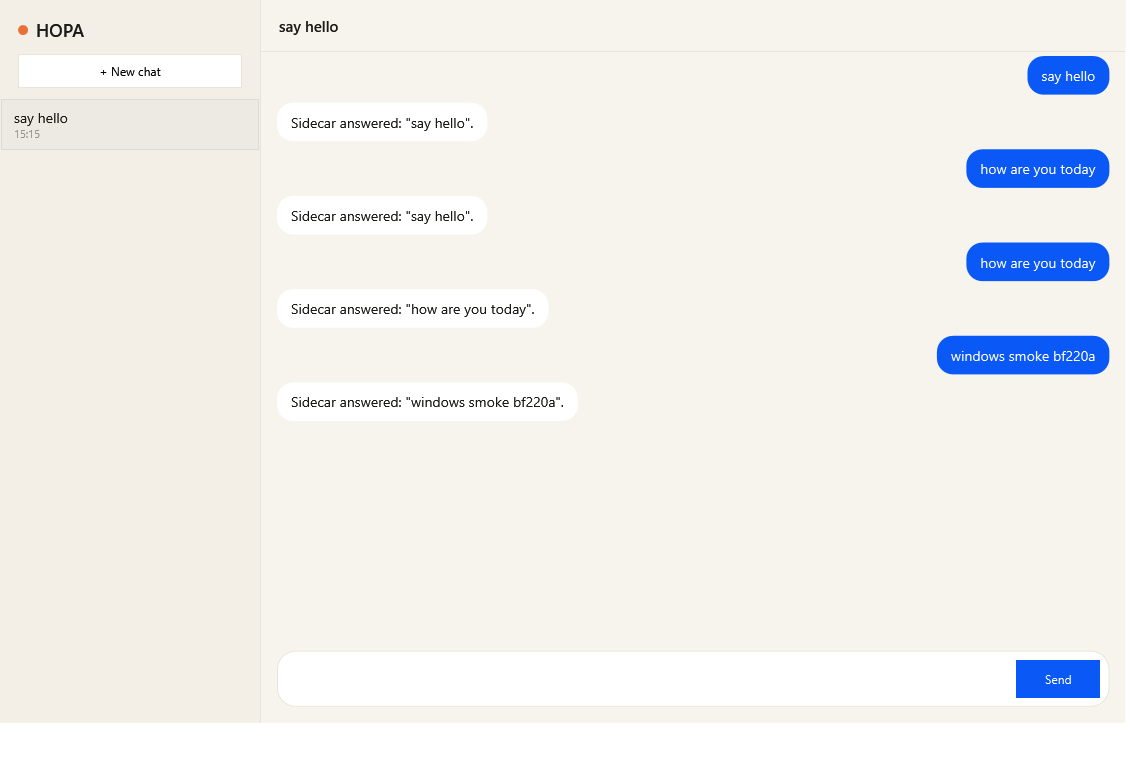
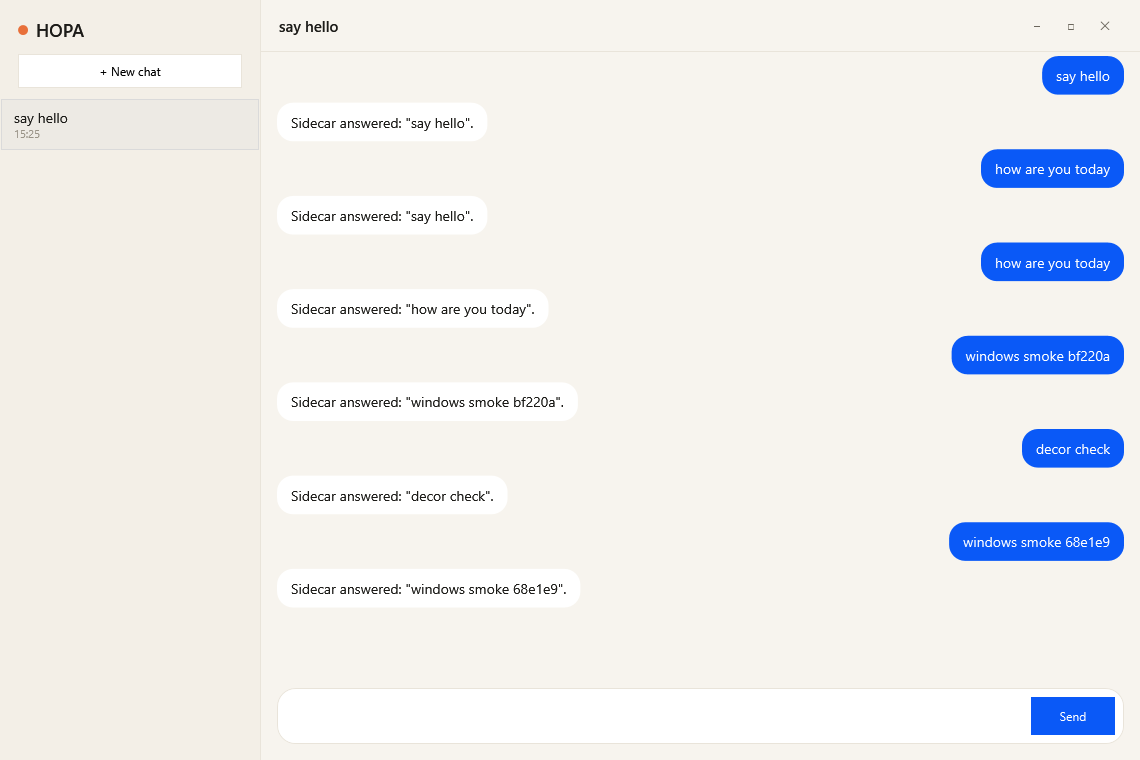
feat(windows): hide the system title bar like the laptop app
WindowChrome keeps resizing and snapping while the 52 px header becomes the drag area and carries the window buttons. The W1 screenshot is refreshed.

diff --git a/apps/windows/Hopa.Windows/MainWindow.xaml b/apps/windows/Hopa.Windows/MainWindow.xaml
@@ -4,6 +4,8 @@
         Title="HOPA"
         Height="760" Width="1140"
         Background="#F7F4EE"
+        WindowStyle="None"
+        ResizeMode="CanResize"
         WindowStartupLocation="CenterScreen">
     <Window.Resources>
         <DataTemplate x:Key="MessageTemplate">
@@ -57,10 +59,27 @@
 
             <Border Grid.Row="0" Background="#F7F4EE" BorderBrush="#E9E4DA" BorderThickness="0,0,0,1">
                 <Grid Margin="18,0">
+                    <Grid.ColumnDefinitions>
+                        <ColumnDefinition Width="*" />
+                        <ColumnDefinition Width="Auto" />
+                        <ColumnDefinition Width="Auto" />
+                    </Grid.ColumnDefinitions>
                     <TextBlock x:Name="TitleText" Text="New chat" VerticalAlignment="Center"
                                FontSize="15" FontWeight="SemiBold" Foreground="#1C1B18" />
-                    <TextBlock x:Name="StatusText" Text="" HorizontalAlignment="Right"
-                               VerticalAlignment="Center" FontSize="11" Foreground="#9A9488" />
+                    <TextBlock x:Name="StatusText" Grid.Column="1" Text="" VerticalAlignment="Center"
+                               Margin="12,0" FontSize="11" Foreground="#9A9488" />
+                    <StackPanel x:Name="WindowButtons" Grid.Column="2" Orientation="Horizontal"
+                                VerticalAlignment="Center">
+                        <Button x:Name="MinimizeButton" Content="&#x2013;" Width="34" Height="28"
+                                Background="Transparent" BorderThickness="0" Foreground="#6B665C"
+                                Click="Minimize_Click" />
+                        <Button x:Name="MaximizeButton" Content="&#x25A1;" Width="34" Height="28"
+                                Background="Transparent" BorderThickness="0" Foreground="#6B665C"
+                                Click="Maximize_Click" />
+                        <Button x:Name="CloseButton" Content="&#x2715;" Width="34" Height="28"
+                                Background="Transparent" BorderThickness="0" Foreground="#6B665C"
+                                Click="Close_Click" />
+                    </StackPanel>
                 </Grid>
             </Border>
 

diff --git a/apps/windows/Hopa.Windows/MainWindow.xaml.cs b/apps/windows/Hopa.Windows/MainWindow.xaml.cs
@@ -6,6 +6,7 @@ using System.Windows.Controls;
 using System.Windows.Input;
 using System.Windows.Media;
 using System.Windows.Media.Imaging;
+using System.Windows.Shell;
 
 namespace Hopa.Windows;
 
@@ -25,9 +26,50 @@ public partial class MainWindow : Window
     public MainWindow()
     {
         InitializeComponent();
+        // The Harmony laptop app hides the system decoration and keeps its own
+        // window controls. WindowChrome does the same here: the top 52 px drags,
+        // the three buttons stay clickable, the resize border remains.
+        WindowChrome.SetWindowChrome(this, new WindowChrome
+        {
+            CaptionHeight = 52,
+            ResizeBorderThickness = new Thickness(6),
+            GlassFrameThickness = new Thickness(0),
+            CornerRadius = new CornerRadius(0),
+            UseAeroCaptionButtons = false,
+        });
+        foreach (var button in new[] { MinimizeButton, MaximizeButton, CloseButton })
+        {
+            WindowChrome.SetIsHitTestVisibleInChrome(button, true);
+        }
+
+        StateChanged += (_, _) => MaximizeButton.Content = WindowState == WindowState.Maximized
+            ? "\u2750"
+            : "\u25A1";
         ConversationList.ItemsSource = conversations;
         MessagesList.ItemsSource = messages;
         Loaded += async (_, _) => await ConnectAsync();
+    }
+
+    private void Minimize_Click(object sender, RoutedEventArgs e)
+    {
+        SystemCommands.MinimizeWindow(this);
+    }
+
+    private void Maximize_Click(object sender, RoutedEventArgs e)
+    {
+        if (WindowState == WindowState.Maximized)
+        {
+            SystemCommands.RestoreWindow(this);
+        }
+        else
+        {
+            SystemCommands.MaximizeWindow(this);
+        }
+    }
+
+    private void Close_Click(object sender, RoutedEventArgs e)
+    {
+        SystemCommands.CloseWindow(this);
     }
 
     public async Task RunTurnAsync(string goal, string? outPath, string? shotPath)

diff --git a/docs/project/evidence/W1-shell.md b/docs/project/evidence/W1-shell.md
@@ -15,6 +15,9 @@ and conversations survive a restart.
 - **Composer**: Enter sends, Shift+Enter keeps the line break.
 - **Palette** copied from `HopaColor`: `#F7F4EE` background, `#F3EFE7` sidebar,
   `#0A59F7` primary, `#E8703A` accent, `#1C1B18` text.
+- **No system title bar**: `WindowChrome` hides the decoration, the top 52 px
+  drags, and the minimize/maximize/close buttons live in the header (the same
+  shape as the Harmony laptop's `decorHidden` mode).
 - **Persistence** in the sidecar: `%USERPROFILE%\.hopa\windows\conversations.json`
   (JSON store over `packages/data` models, now `@Serializable`).
 - **Drafts** per conversation, kept in memory (implemented, not yet verified by
